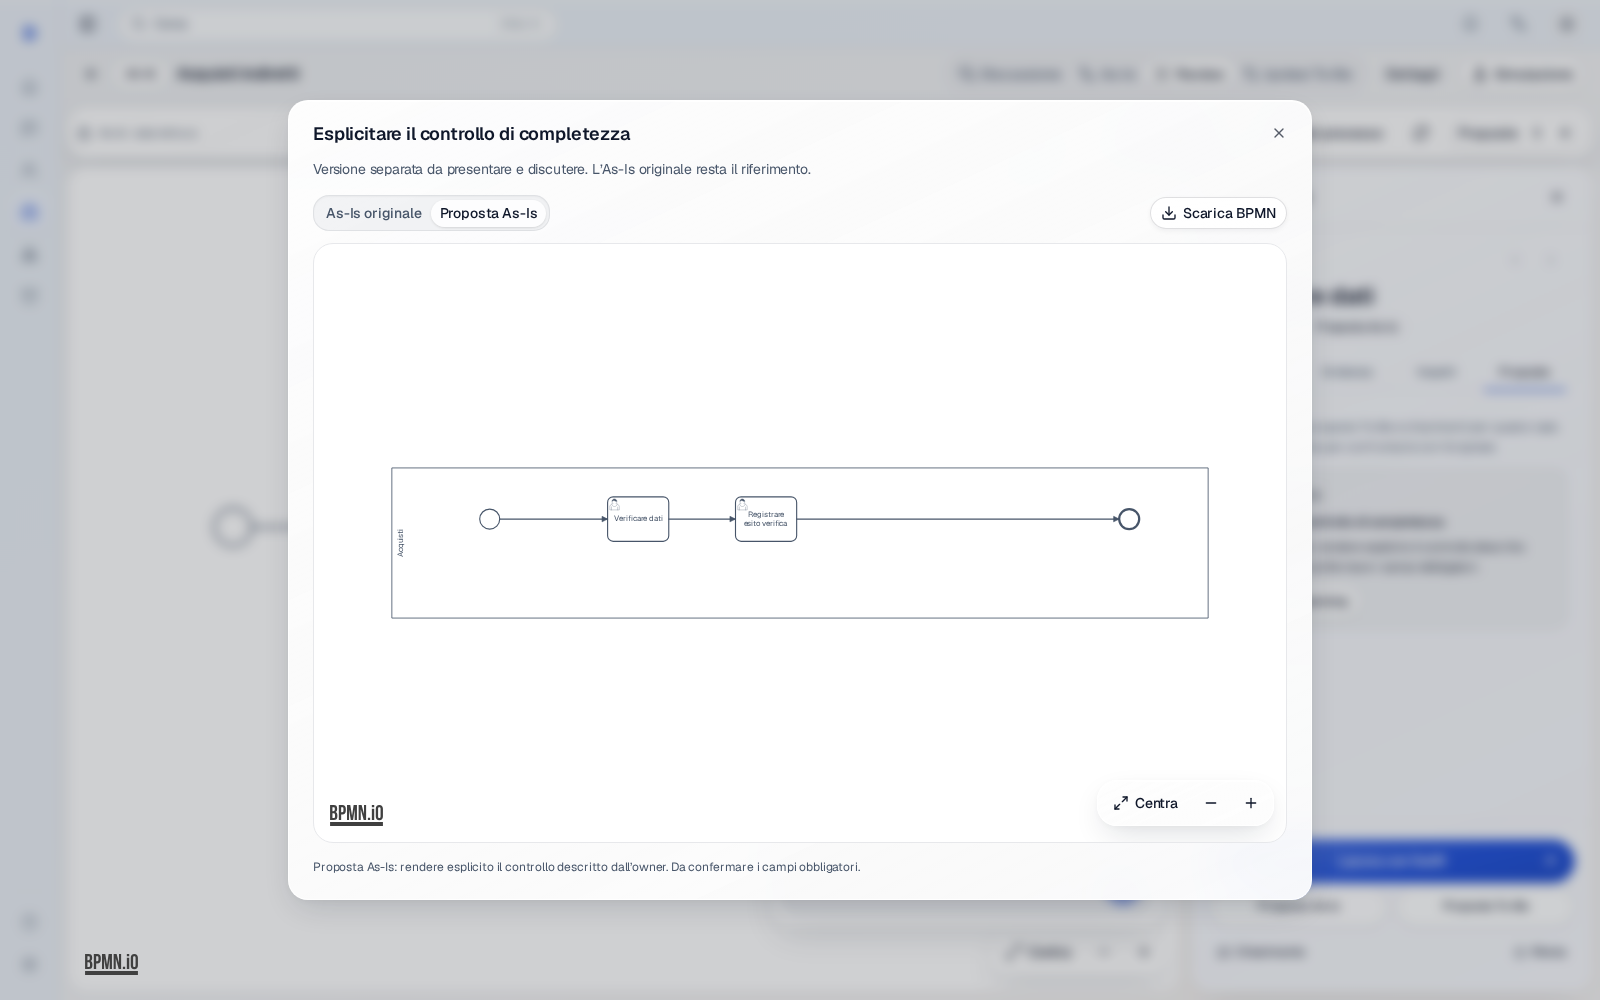
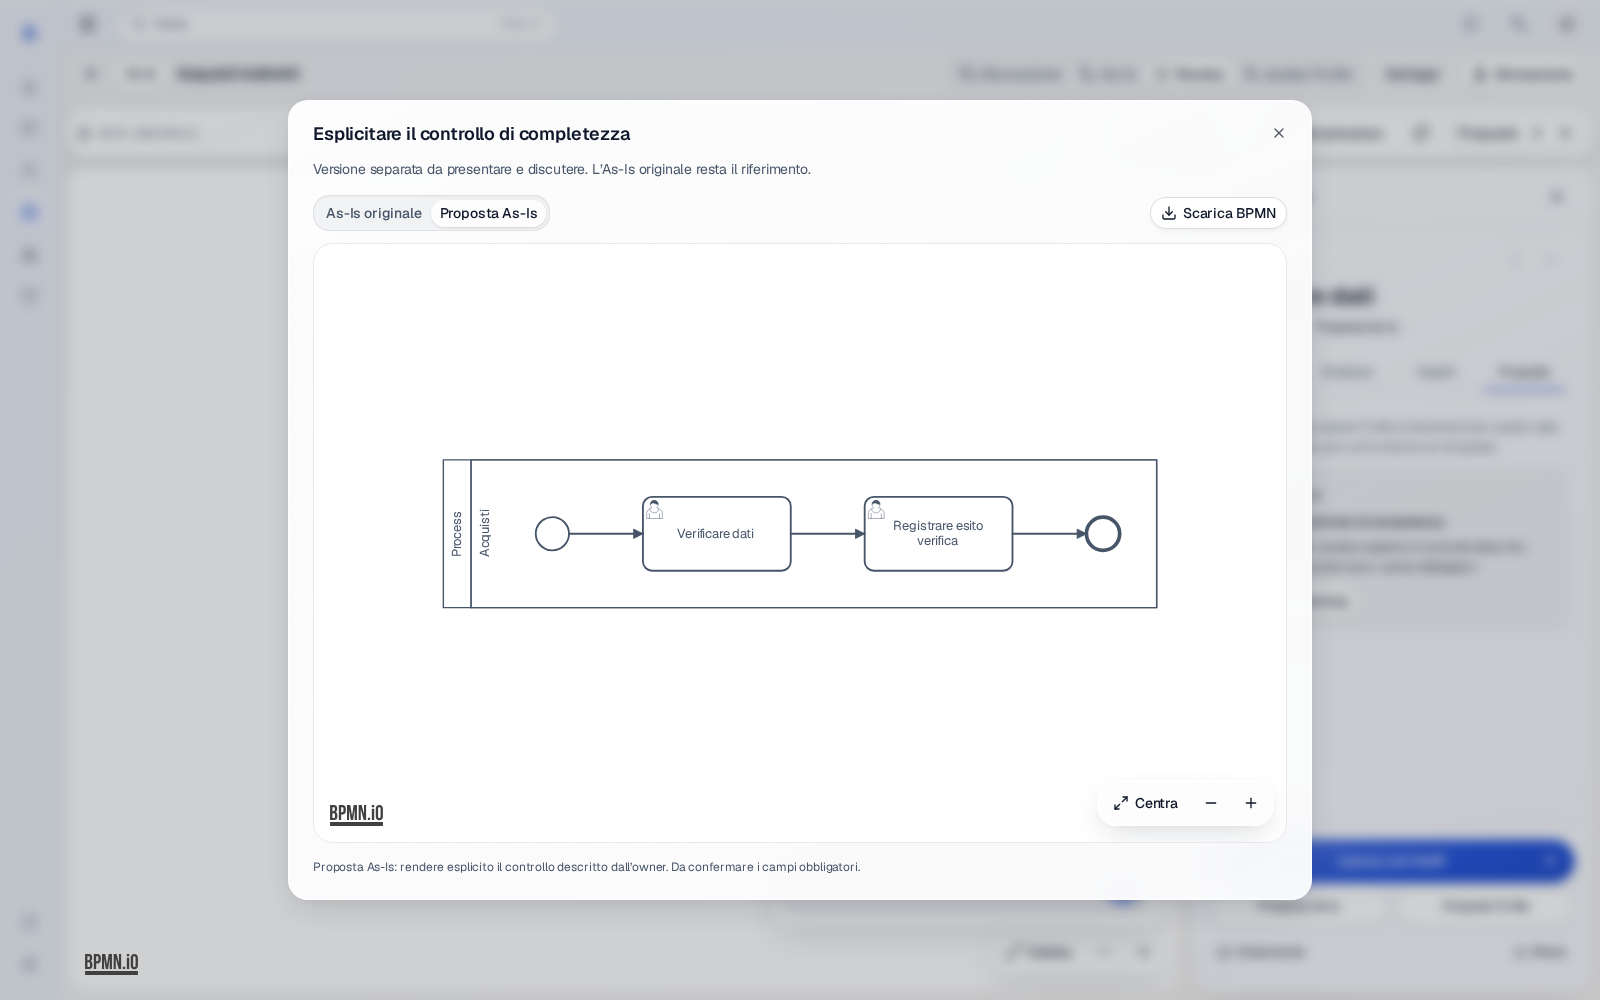
test(canvas): verify enterprise diagrams in the product and document policy

diff --git a/e2e/process-impact-review.spec.ts b/e2e/process-impact-review.spec.ts
@@ -41,11 +41,11 @@ ${[
 ].map((points, index) => `<bpmndi:BPMNEdge id="f${index + 1}_di" bpmnElement="f${index + 1}">${points}</bpmndi:BPMNEdge>`).join("")}
 </bpmndi:BPMNPlane></bpmndi:BPMNDiagram></b:definitions>`;
 
-async function fixture(page: Page, options: { failEvidence?: boolean; conflict?: boolean; failChatOnce?: boolean; holdChat?: boolean; engineDiagram?: boolean } = {}) {
+async function fixture(page: Page, options: { failEvidence?: boolean; conflict?: boolean; failChatOnce?: boolean; holdChat?: boolean; engineDiagram?: boolean; enterpriseDiagram?: boolean } = {}) {
   // These artifacts are generated and compared byte-canonically in the real
   // LangGraph → tool → Postgres test, rather than authored by this API mock.
   const baseline = options.engineDiagram ? readFileSync("e2e/fixtures/review-agent/baseline.bpmn", "utf8") : XML;
-  const proposal = options.engineDiagram ? readFileSync("e2e/fixtures/review-agent/proposal.bpmn", "utf8") : XML.replace('name="Verificare dati"', 'name="Verificare completezza dati"');
+  const proposal = options.enterpriseDiagram ? readFileSync("e2e/fixtures/canvas-layout/purchase.bpmn", "utf8") : options.engineDiagram ? readFileSync("e2e/fixtures/review-agent/proposal.bpmn", "utf8") : XML.replace('name="Verificare dati"', 'name="Verificare completezza dati"');
   const actions: Array<Record<string, unknown>> = [];
   const mutations: string[] = [];
   const turns: Array<Record<string, unknown>> = [];
@@ -329,4 +329,29 @@ test("avatar opens on demand and chat resizing persists across tasks", async ({ 
   // Reset must restore the original measured size, rather than an integer.
   await expect.poll(() => chat.evaluate(element => element.getBoundingClientRect().height)).toBeCloseTo(before.height, 1);
   expect((await new AxeBuilder({ page }).include(".process-review-workspace").analyze()).violations).toEqual([]);
+});
+
+
+test("enterprise policy diagram renders real-owner lanes, process pool and branch labels", async ({ page }, info) => {
+  await page.setViewportSize({ width: 1600, height: 1000 });
+  await fixture(page, { enterpriseDiagram: true });
+  await open(page); await selectTask(page); await openAgent(page);
+  await send(page, "Disegna la proposta di acquisto con owner e condizioni espliciti.");
+  await expect(page.getByRole("button", { name: "Salva come ipotesi" })).toBeVisible();
+  await page.getByRole("dialog", { name: "Agente di Review" }).getByRole("button", { name: "Apri conoscenza e proposte del task" }).click();
+  await page.getByRole("tab", { name: "Proposte", exact: true }).click();
+  await page.getByRole("button", { name: "Apri diagramma", exact: true }).click();
+  const preview = page.getByRole("dialog", { name: "Esplicitare il controllo di completezza" });
+  for (const id of ["Company", "Supplier", "Technical", "Purchasing", "Maintenance", "Director_Sign", "Request_Document"])
+    await expect(preview.locator(`.djs-element[data-element-id='${id}']`)).toBeVisible();
+  for (const text of ["Ufficio tecnico", "Acquisti", "Manutenzione", "Sopra soglia", "Sotto soglia"])
+    await expect(preview.locator(".djs-label").filter({ hasText: text }).first()).toBeVisible();
+  await expect(preview.locator(".djs-connection")).toHaveCount(11);
+  const geometry = await preview.locator(".djs-element[data-element-id='Start'], .djs-element[data-element-id='Open_Request'], .djs-element[data-element-id='Verify'], .djs-element[data-element-id='Decision'], .djs-element[data-element-id='Create_Order'], .djs-element[data-element-id='End']").evaluateAll(elements => Object.fromEntries(elements.map(element => [element.getAttribute("data-element-id"), element.getBoundingClientRect().x])));
+  expect(geometry.Start).toBeLessThan(geometry.Open_Request);
+  expect(geometry.Open_Request).toBeLessThan(geometry.Verify);
+  expect(geometry.Verify).toBeLessThan(geometry.Decision);
+  expect(geometry.Decision).toBeLessThan(geometry.Create_Order);
+  expect(geometry.Create_Order).toBeLessThan(geometry.End);
+  await page.screenshot({ path: info.outputPath("enterprise-layout-proposal.png") });
 });

diff --git a/tests/bpmn/test_canvas_layout_policy.py b/tests/bpmn/test_canvas_layout_policy.py
@@ -98,3 +98,40 @@ def test_invalid_semantics_are_rejected_before_di_generation(mutation):
         xml = xml.replace('</b:laneSet>', '<b:lane id="other" name="Operations"><b:flowNodeRef>verify</b:flowNodeRef></b:lane></b:laneSet>')
     with pytest.raises(ValueError):
         apply_enterprise_layout(xml)
+
+
+def test_product_three_lane_artifact_matches_the_policy_and_contains_visible_branch_labels():
+    from pathlib import Path
+    xml = apply_enterprise_layout(Path("tests/fixtures/purchase_layout.bpmn").read_text())
+    assert xml == Path("e2e/fixtures/canvas-layout/purchase.bpmn").read_text()
+    root = ET.fromstring(xml)
+    assert len(root.findall(".//b:lane", NS)) == 3
+    for flow_id in ("F4", "F5"):
+        assert root.find(f".//bd:BPMNEdge[@bpmnElement='{flow_id}']/bd:BPMNLabel/dc:Bounds", NS) is not None
+    assert lint_visual_model(root)["valid"]
+
+
+def test_normalizer_preserves_event_declarations_conditions_and_provenance_in_schema_order():
+    xml = semantic(LINEAR, LINEAR_FLOWS).replace('<b:startEvent id="start" name=""/>', '<b:startEvent id="start"><b:documentation>Evidence A</b:documentation><b:timerEventDefinition><b:timeDuration>PT1H</b:timeDuration></b:timerEventDefinition></b:startEvent>')
+    root = ET.fromstring(apply_enterprise_layout(xml))
+    event = root.find(".//b:startEvent", NS)
+    assert [e.tag.rsplit("}", 1)[-1] for e in event] == ["documentation", "outgoing", "timerEventDefinition"]
+    assert event.findtext("b:timerEventDefinition/b:timeDuration", namespaces=NS) == "PT1H"
+    assert event.findtext("b:documentation", namespaces=NS) == "Evidence A"
+
+
+def test_qname_only_namespace_aliases_survive_di_regeneration():
+    xml = semantic(LINEAR, LINEAR_FLOWS).replace('id="def"', 'xmlns:xsi="http://www.w3.org/2001/XMLSchema-instance" xmlns:xsd="http://www.w3.org/2001/XMLSchema" id="def"')
+    xml = xml.replace('<b:process', '<b:itemDefinition id="item" structureRef="xsd:string"/><b:process', 1)
+    xml = xml.replace('targetRef="record"/>', 'targetRef="record"><b:conditionExpression xsi:type="b:tFormalExpression">ready</b:conditionExpression></b:sequenceFlow>')
+    laid_out = apply_enterprise_layout(xml)
+    assert 'xmlns:xsd="http://www.w3.org/2001/XMLSchema"' in laid_out
+    assert f'xmlns:b="{BPMN}"' in laid_out
+    assert 'xsi:type="b:tFormalExpression"' in laid_out
+    assert apply_enterprise_layout(laid_out) == laid_out
+
+
+def test_multiple_participants_cannot_claim_the_same_process():
+    xml = semantic(LINEAR, LINEAR_FLOWS).replace('</b:definitions>', '<b:collaboration id="collab"><b:participant id="one" processRef="process"/><b:participant id="two" processRef="process"/></b:collaboration></b:definitions>')
+    with pytest.raises(ValueError, match="participant"):
+        apply_enterprise_layout(xml)

diff --git a/tests/bpmn/test_bpmn_layout_readability.py b/tests/bpmn/test_bpmn_layout_readability.py
@@ -83,7 +83,7 @@ def test_dense_lanes_use_only_the_rows_they_contain():
     )
     waypoints = list(message_edge.iter(f"{{{DI_NS}}}waypoint"))
     assert len(waypoints) >= 2
-    assert all(float(a.attrib["x"]) == float(b.attrib["x"]) or float(a.attrib["y"]) == float(b.attrib["y"]) for a, b in zip(waypoints, waypoints[1:]))
+    assert all(float(a.attrib["x"]) == float(b.attrib["x"]) or float(a.attrib["y"]) == float(b.attrib["y"]) for a, b in zip(waypoints, waypoints[1:], strict=False))
 
 
 def test_layout_report_identifies_connectors_through_other_activities():

diff --git a/docs/design/canvas-layout-policy.md b/docs/design/canvas-layout-policy.md
@@ -1,0 +1,69 @@
+# DeliR CanvasLayoutPolicy
+
+Agents edit process meaning. DeliR owns diagram geometry.
+
+`Agent → semantic BPMN → normalizer → graph/lane layout → visual lint → regenerated BPMN DI → bpmn-js`
+
+The entrypoint is `backend.bpmn.canvas_layout.apply_enterprise_layout`. Compilers,
+canvas editing helpers, construction tools, the drawing subgraph and Review
+proposals use it. A second guard at model persistence checks the runtime actor:
+an agent cannot bypass the policy by supplying raw XML or the default save source.
+Agent restores also regenerate DI. Model XML, version snapshots and tool state
+use the actual persisted result.
+
+The previous serializer layout and row-based layout implementation have been
+removed. The drawing subgraph no longer calls an LLM to choose rows or spacing.
+Legacy Python layout keywords are accepted for source compatibility and do not
+control output; they are absent from the agent tool schemas.
+
+## Product grammar
+
+- Incoming DI is discarded. IDs, ownership, conditions, event declarations,
+  documents, notes and provenance remain semantic authority.
+- A role is a lane. Existing participants remain pools. When a process with lanes
+  has no participant, its process name supplies the single process boundary.
+  Unknown ownership does not create invented roles.
+- Sequence flow topology supplies stable left-to-right ranks. XML child order
+  and previous coordinates cannot choose visual order. End events occupy the
+  final rank; feedback loops use return channels.
+- Lane order follows first involvement. Ties use incoming flow IDs and lane IDs.
+  Simultaneous branches share a rank and symmetric vertical tracks before joins.
+- Task sizes and spacing come from the frozen product policy. Artifact space and
+  boundary attachments follow semantic relationships.
+- Deterministic orthogonal routing avoids nodes and labels. Candidate routes and
+  an obstacle-corner search penalize crossings; branch labels have explicit DI.
+- Visual lint blocks missing or duplicate shapes/sequence edges, invalid bounds,
+  overlapping elements/text, owner or pool containment violations, diagonal
+  agent routes and connections through unrelated nodes or labels. Residual
+  crossings are reported. This custom graph engine does not claim globally
+  optimal routing for every possible graph.
+
+## Manual work
+
+Consultant saves and restores preserve supplied DI. Existing diagrams are
+validated without regeneration. Invalid bounds, overlaps, owner containment
+violations and connections through nodes reject the save atomically. Diagonal
+manual routes and text concerns are diagnostics rather than automatic changes.
+Legacy records with no diagram remain readable. A later agent mutation applies
+the mandatory policy to the resulting proposal/model, including previously
+manual geometry.
+
+## Verification
+
+Tests cover ignored agent DI, deterministic ranks and idempotence, real-owner
+lanes, symmetric branches, loops, boundary events, invalid semantic references,
+QName-only namespace preservation, event child order, and actor-aware writes and
+restores on isolated Postgres. Existing topology/compiler tests retain coverage
+of conditions, data, events, traceability and exceptions.
+
+The actual LangGraph Review tool creates the committed `review-agent` BPMN
+artifacts; Playwright imports those exact bytes, checks visible nodes and painted
+paths and compares the exported BPMN. A separate policy-generated purchase
+artifact verifies three owner lanes, process/external pools, documents and
+branch labels in the product viewer on desktop and mobile Chromium. Browser
+review responses are mocked; these checks do not prove an arbitrary natural
+language request will produce correct business semantics.
+
+![Three real-owner lanes](process-review/enterprise-layout-proposal.png)
+
+![Actual Review tool proposal](process-review/engine-proposal-desktop.png)
